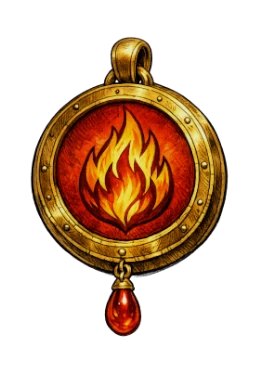
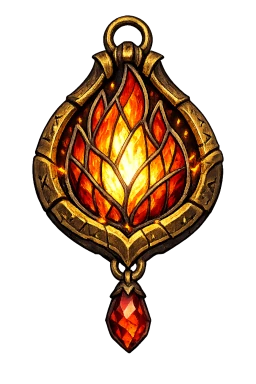
wip retaliate

diff --git a/backend/src/game/systems/skill_masteries_controller.rs b/backend/src/game/systems/skill_masteries_controller.rs
@@ -136,9 +136,16 @@ pub fn apply_skill_mastery(
             SkillMasteryUpgradeEffectType::SkillEffect {
                 skill_effect,
                 target_index,
+                affect_triggers,
             } => {
-                if let Some(target_group) = skill_specs.targets.get_mut(*target_index) {
-                    target_group.effects.push((**skill_effect).clone());
+                if *affect_triggers {
+                    for trigger in skill_specs.triggers.iter_mut() {
+                        trigger.trigger_effect.effects.push((**skill_effect).clone());
+                    }
+                } else {
+                    if let Some(target_group) = skill_specs.targets.get_mut(*target_index) {
+                        target_group.effects.push((**skill_effect).clone());
+                    }
                 }
             }
             SkillMasteryUpgradeEffectType::Trigger(trigger_specs) => {

diff --git a/frontend/src/components/town/panels/skill_masteries.rs b/frontend/src/components/town/panels/skill_masteries.rs
@@ -880,6 +880,7 @@ fn format_mastery_upgrade_effect(
         SkillMasteryUpgradeEffectType::SkillEffect {
             skill_effect,
             target_index: _,
+            affect_triggers:_,
         } => {
             Some(
                 skill_tooltip::format_skill_effect((**skill_effect).clone(), false, None, None, None)

diff --git a/shared/src/data/skill_mastery.rs b/shared/src/data/skill_mastery.rs
@@ -55,6 +55,8 @@ pub enum SkillMasteryUpgradeEffectType {
         skill_effect: Box<SkillEffect>,
         #[serde(default)]
         target_index: usize,
+        #[serde(default)]
+        affect_triggers: bool,
     },
     ReplaceStatusId {
         // TODO: Turn into StatEffect instead?
